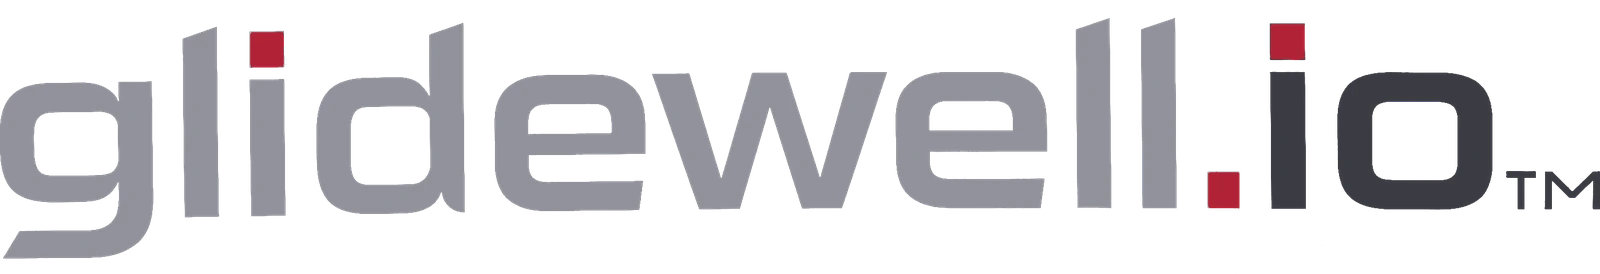
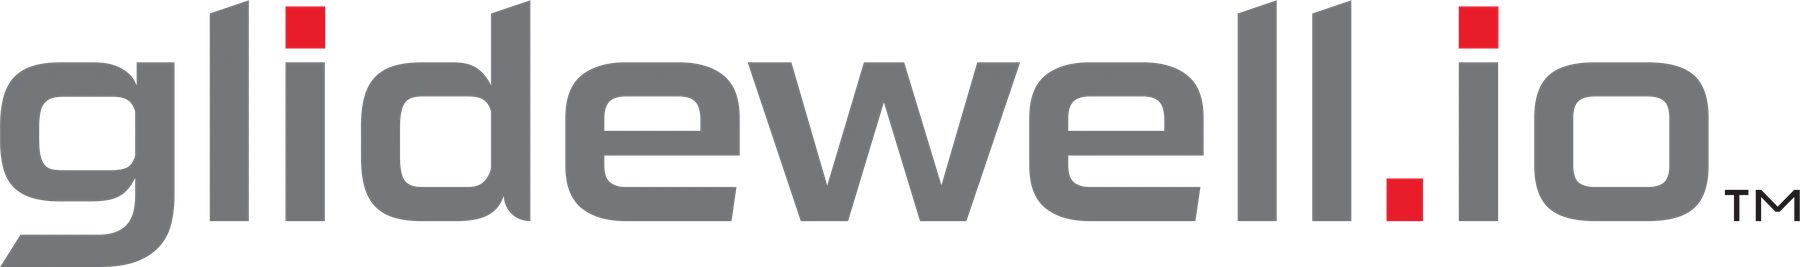
Expo 2017: логотип glidewell.io вместо набранного имени — на стене и в заголовке страницы.
Эльдар (07.10.2026): «логотип нужно поставить вместо текстового обозначения и этот же лого вместо текстового обозначения внутрь страницы»; про вариант с подписью IN-OFFICE SOLUTION (есть только картинкой 300×60) — «если нет ничего страшного — бери чистый».

Знак отрисован из вектора (glidewell-io_pms185-pmscool-gray-9-black.ai) в 1800×267, обрезан по альфе. TITLE_LOGOS/drawTitleLogo: знак встаёт на место имени — высота от высоты «l» того же шрифта, базовая линия 221 из 267 строк (низ «l», замер по альфе), на стене по центру над тезисом, на странице слева под годом. На тёмном стеклянном листе 2017-го серый знак читался пятном — там он вывороткой (glidewell_io_rev: серые буквы и ™ белые, красные точки как есть). Проверено снимками стены и страницы на 2000×1040.

diff --git a/expo/expo.html b/expo/expo.html
@@ -3614,6 +3614,30 @@ const CAPS_MIXED = {BRUXZIR:'BruxZir', GLIDEWELL:'Glidewell', PRISMATIK:'Prismat
   'GLIDEWELL.IO':'glidewell.io', 'FASTMILL.IO':'fastmill.io', 'FASTDESIGN.IO':'fastdesign.io',
   NITE:'Nite', HAHN:'Hahn', MISCH:'Misch', RESNIK:'Resnik', TAGGART:'Taggart', PLAYSAFE:'PlaySafe',
   MACARTHUR:'MacArthur', BLVD:'Blvd', ZIRCONIA:'zirconia'};
+/* ИМЯ, У КОТОРОГО ЕСТЬ ЛОГОТИП, НЕ НАБИРАЕТСЯ ШРИФТОМ. Эльдар (07.10.2026):
+   «логотип нужно поставить вместо текстового обозначения, и этот же лого —
+   вместо текстового обозначения внутрь страницы». Вариант с подписью
+   IN-OFFICE SOLUTION есть только картинкой 300×60 — «если нет ничего
+   страшного, бери чистый»: знак отрисован из .ai (glidewell-io_pms185-
+   pmscool-gray-9-black), 1800 px. Высота знака берётся от высоты буквы «l»
+   того шрифта, которым стояло имя: базовая линия знака — 221 из 267 строк
+   (низ «l», замер по альфе), а «l» в знаке — от самого верха. Так знак
+   занимает ровно место набранного имени и стоит на той же линии. */
+const TITLE_LOGOS = {'GLIDEWELL.IO': {sp: 'ph_gio', rev: 'ph_gio_rev', base: 221 / 267}};
+/* light — лист тёмный, а набор на нём светлый: тогда знак вывороткой (серые
+   буквы и ™ в белый, красные точки как есть); серый знак на матовом стекле
+   2017-го читался пятном */
+function drawTitleLogo(t, x, yBase, align, alpha, light){
+  const L = TITLE_LOGOS[t]; const sp = L && (light && PROP_SPRITES[L.rev] || PROP_SPRITES[L.sp]);
+  if (!sp) return false;
+  const asc = ctx.measureText('l').actualBoundingBoxAscent;   // шрифт уже стоит тот, которым набиралось имя
+  const h = asc / L.base, w = h * sp.w / sp.h;
+  const x0 = align === 'left' ? x : x - w / 2;
+  ctx.save(); ctx.globalAlpha *= alpha;
+  ctx.drawImage(spriteMip(sp, w, h), x0, yBase - h * L.base, w, h);
+  ctx.restore();
+  return true;
+}
 function sentence(str){
   if (!str) return str;
   if (/[a-z]/.test(str)) return str;                 // already mixed: not ours to touch
@@ -3935,7 +3959,11 @@ function drawBeatText(b, focusAmt){
          the wall as well (2017: the render letters its own plinth) */
       letterRelief(0.55);
       if (LB) ctx.fillText(sentence(b.t), LB.x, LB.y + 46 * sc * 0.36 * kk * SS);
-      else if (!b.tHide) ctx.fillText(sentence(b.t), cx, mixN(py((b.minor ? tY + 4 : tY) + cd - (b.yLift || 0), kk), H*0.16 + 62*SS, focusAmt));
+      else if (!b.tHide){
+        const tYb = mixN(py((b.minor ? tY + 4 : tY) + cd - (b.yLift || 0), kk), H*0.16 + 62*SS, focusAmt);
+        if (TITLE_LOGOS[b.t]){ noShadow(); try { ctx.letterSpacing = '0px'; } catch(e){} }
+        if (!drawTitleLogo(b.t, cx, tYb, 'center', 0.55 + 0.45*near)) ctx.fillText(sentence(b.t), cx, tYb);
+      }
       noShadow();
       try { ctx.letterSpacing = '0px'; } catch(e){}
       if (near > 0.25 && b.th){
@@ -12333,6 +12361,8 @@ async function loadPhotoSkin(){
     ph_hall_plinth: 'hall_plinth.png',// the low stone the turning crown stands on
     ph_album: 'album_cover.png',      // the family album, photographed shut on the counter
     ph_pillow: 'pillow.png',          // 1996: подушка с каппой Silent Nite — год уходит со стены, предмет остаётся
+    ph_gio: 'glidewell_io.png',       // 2017: логотип glidewell.io из вектора (.ai Эльдара) — вместо набранного имени
+    ph_gio_rev: 'glidewell_io_rev.png',// он же вывороткой: белые буквы, красные точки — для тёмного листа
     ph_bz_soon: 'bruxzir_soon.png',   // 2009: неоновая табличка BruxZir COMING SOON — временная, висит на ниточке
     ph_pfm1: 'pfm_1.png', ph_pfm2: 'pfm_2.png', ph_pfm3: 'pfm_3.png',   // the six PFM stages, cut apart
     ph_pfm4: 'pfm_4.png', ph_pfm5: 'pfm_5.png', ph_pfm6: 'pfm_6.png',
@@ -17952,7 +17982,8 @@ function drawStudy(){
   const studyTitle = sentence(b.t || b.sign || '');
   while (studyTitle && ctx.measureText(studyTitle).width > textW && tSz > 24){ tSz -= 1; ctx.font = K.font(tSz); }
   ctx.fillStyle = `rgba(${K.ink},0.92)`;
-  if (studyTitle) ctx.fillText(studyTitle, left, y);
+  const inkLight = K.ink.split(',').reduce((q, c) => q + (+c), 0) / 3 > 150;
+  if (studyTitle && !drawTitleLogo(b.t, left, y, 'left', 1, inkLight)) ctx.fillText(studyTitle, left, y);
   try { ctx.letterSpacing = '0px'; } catch(err){}
   /* A PAGE WHOSE FIGURE IS THE SUBJECT HAS NO RULE. On the crossover the rule
      sat between a one-line caption and the carton that caption names, and it
